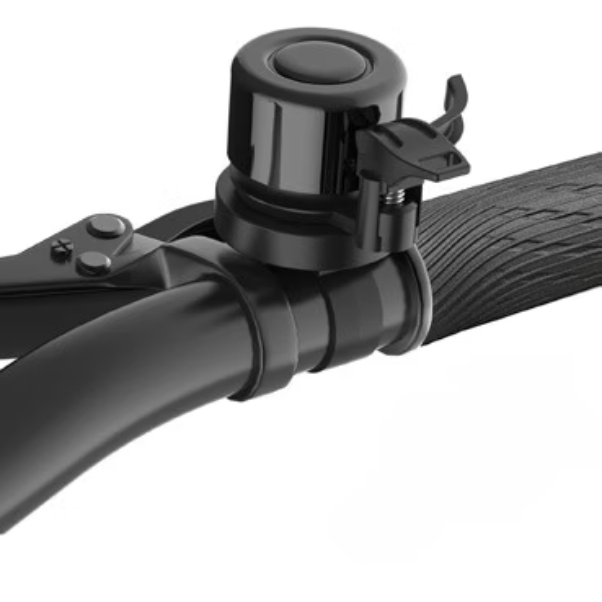
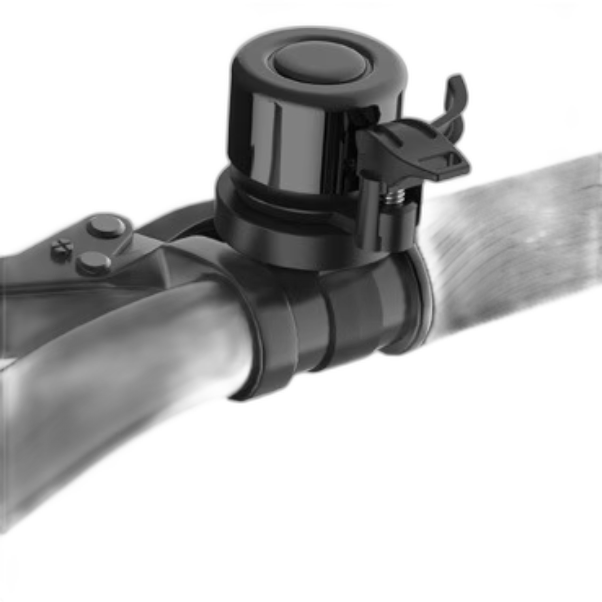
Update product images, copy, and branding section
- Updated product images (bell, bottleholder, taillight)
- Refined DE/EN copy: removed fleet operators, updated stats, simplified descriptions
- Removed extra feature from CustomBrandingSection

diff --git a/src/components/sections/CustomBrandingSection.jsx b/src/components/sections/CustomBrandingSection.jsx
@@ -8,8 +8,7 @@ const CustomBrandingSection = () => {
     const features = [
         { icon: <Package size={22} />, text: t('customization.features.0') },
         { icon: <Smartphone size={22} />, text: t('customization.features.1') },
-        { icon: <Building2 size={22} />, text: t('customization.features.2') },
-        { icon: <Rocket size={22} />, text: t('customization.features.3') }
+        { icon: <Building2 size={22} />, text: t('customization.features.2') }
     ];
 
     return (
